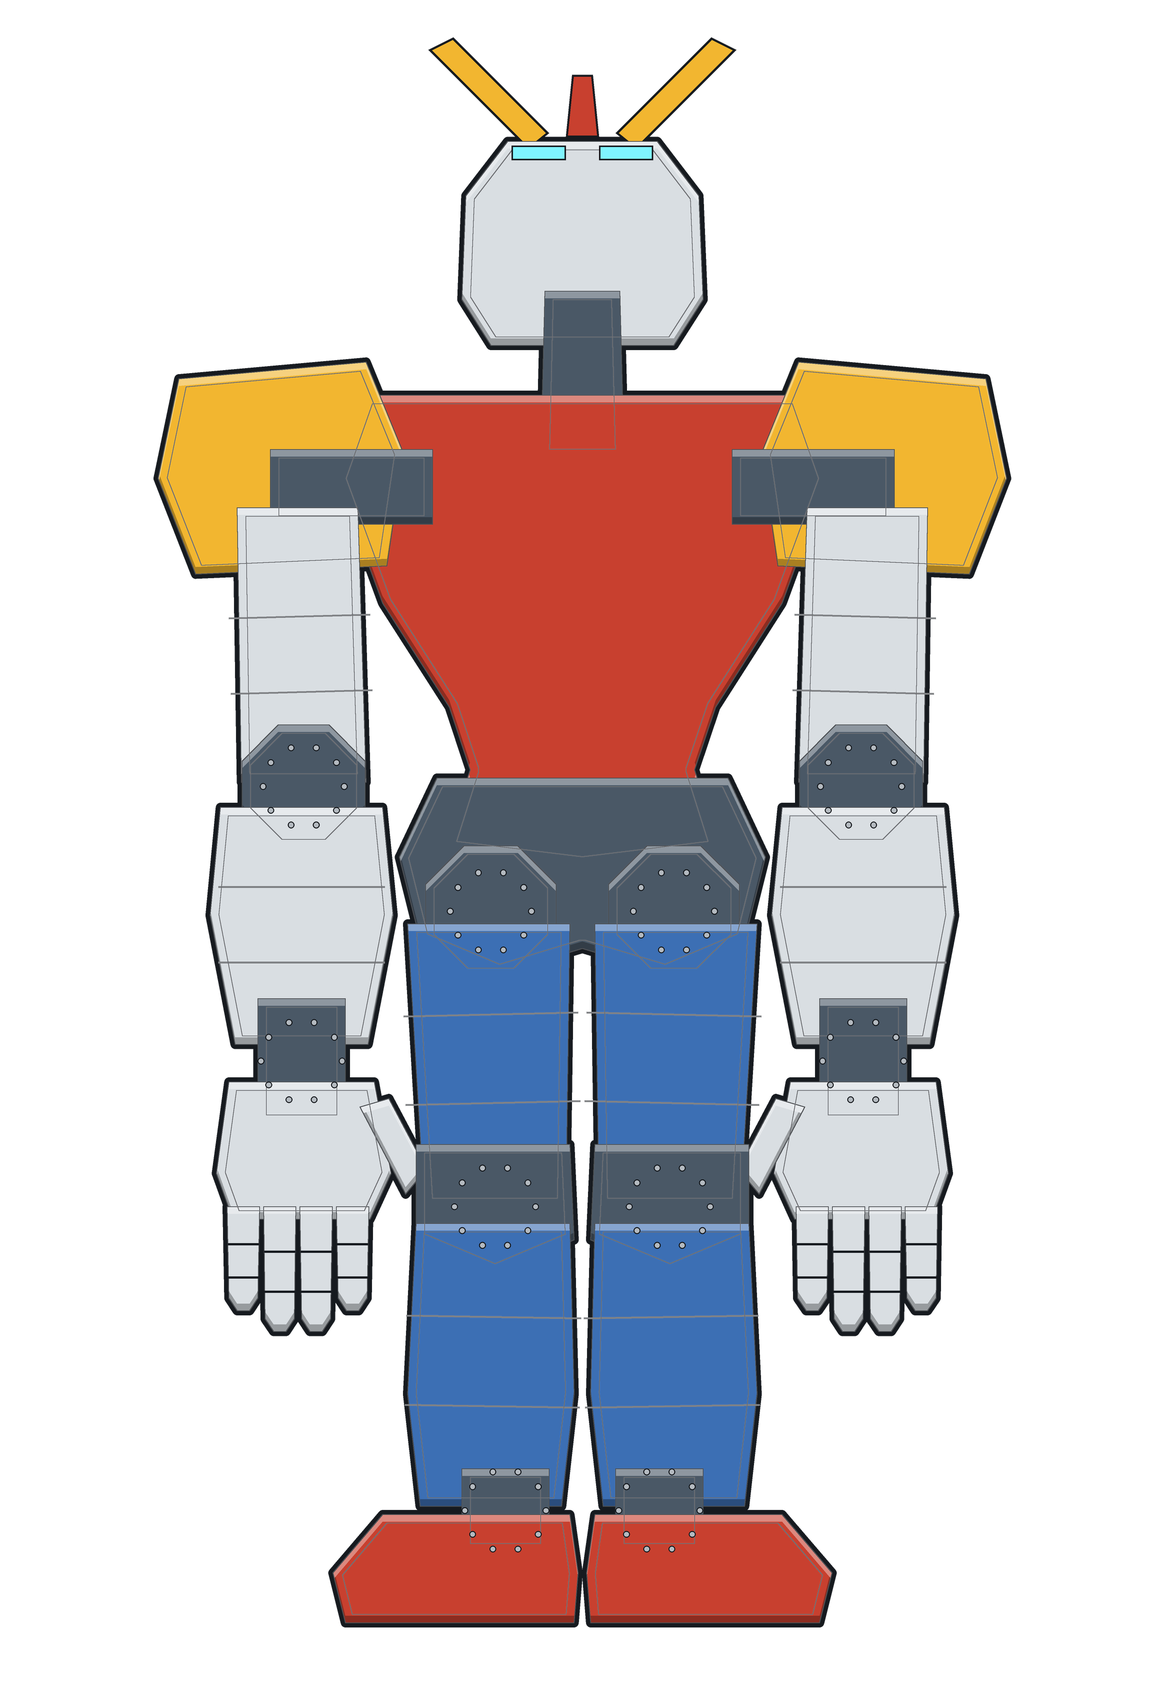
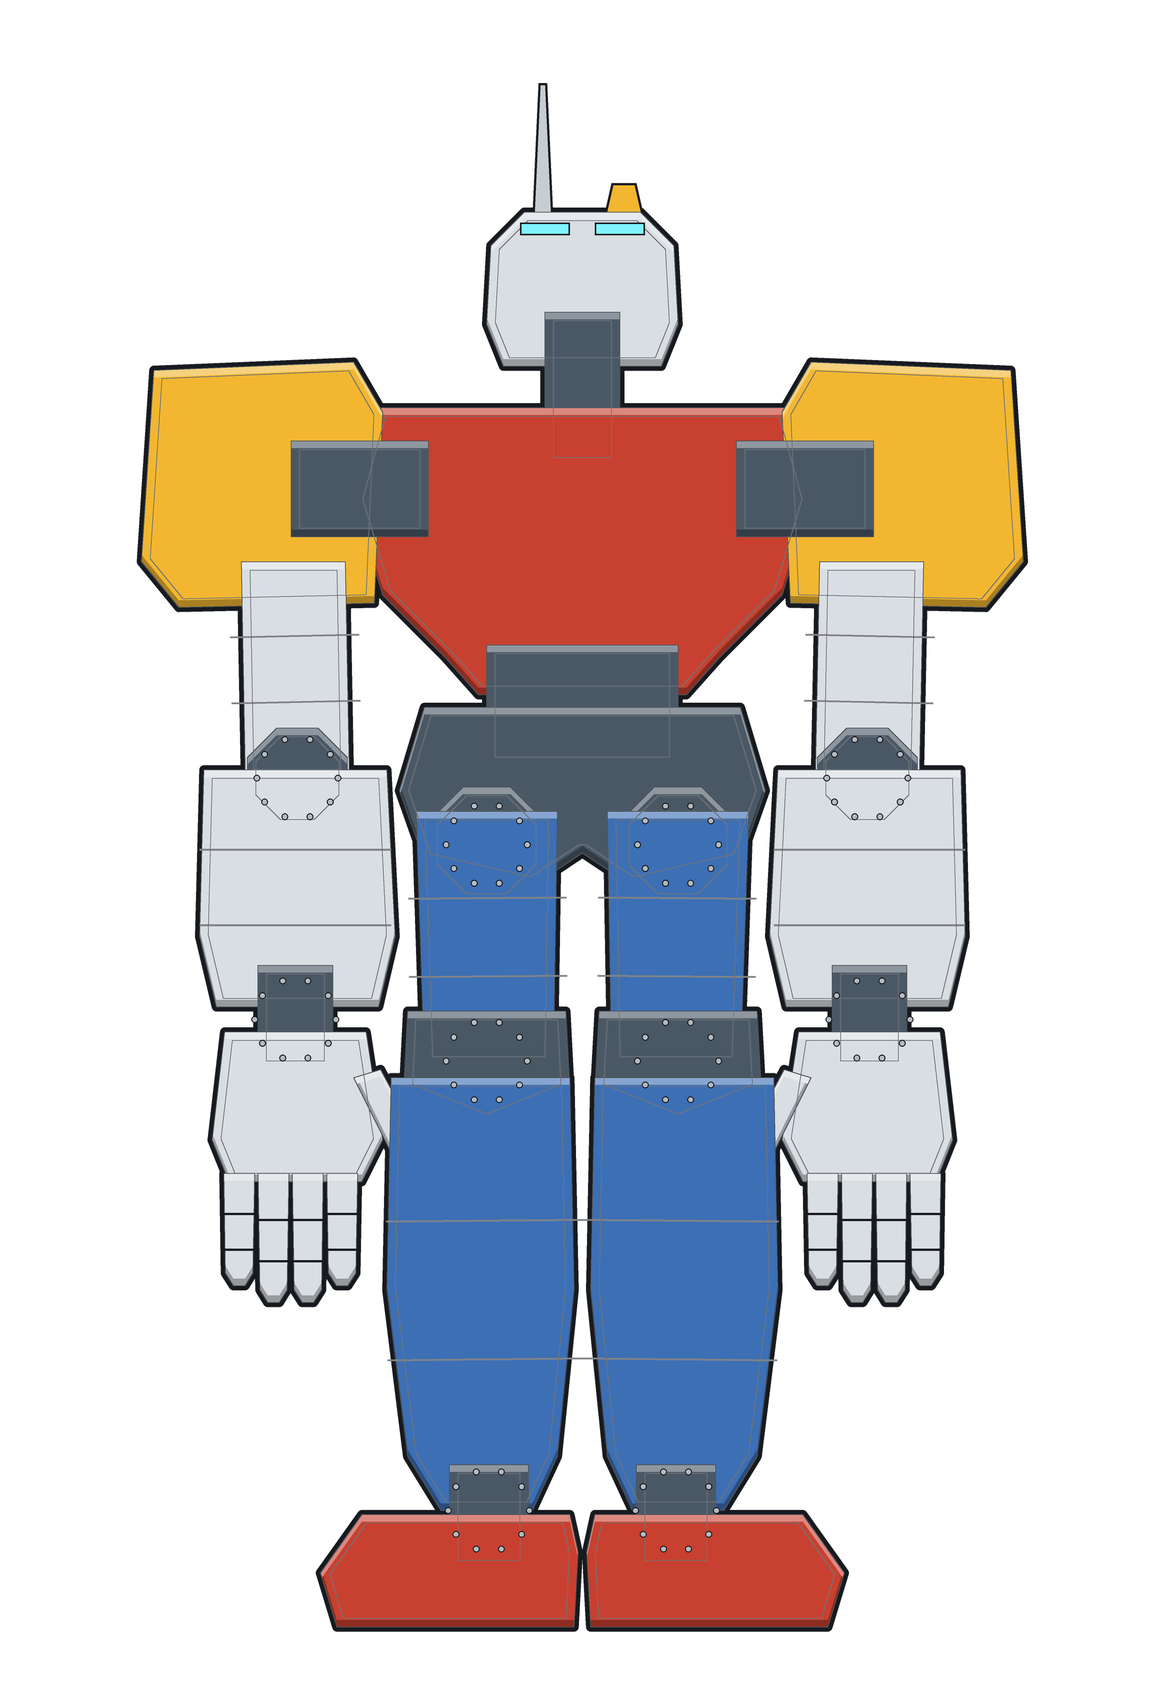
Reshape the robot to a long-legged mecha silhouette
Long legs close to half the height with long, thick shins narrowing to the
ankle and big boxy feet; tall block shoulders, slim upper arms and thick
squared forearms; a narrow waist under a wide flat chest; a small head
with a single antenna. Catwalks, ladders, seats, devices and props were
re-laid out to fit, with single ladders running from each foot to the
hips.

Claude-Session: https://claude.ai/code/session_014wgBvTxHemxFMo2E8WgQDa

Changed region(s): [[0.0927, 0.0, 0.8961, 0.9634]]

diff --git a/tools/art/robot_layers.py b/tools/art/robot_layers.py
@@ -120,35 +120,39 @@ def limb(name, color, thick, pts, a, b, r):
 
 
 def build_parts():
-    """角ばったメカの体。面で構成し、角は面取りする（曲線は使わない）"""
+    """角ばったメカの体。脚が長く（全高の半分近く）、すねは太く長く、足は大きな箱型。
+    肩は縦長のブロック、上腕は細く前腕は太い。腰は細く、胸は広く平ら、頭は小さい。"""
     L = []
-    L.append(Part("頭", "poly", WHITE, 1.0, pts=[(15.6, 49.4), (24.4, 49.4), (25.8, 51.6), (25.6, 56.6), (23.6, 59.2), (16.4, 59.2), (14.4, 56.6), (14.2, 51.6)]))
-    L.append(Part("首", "poly", DARK, 0.8, pts=[(18, 44.0), (22, 44.0), (21.8, 52.0), (18.2, 52.0)]))
-    L.append(Part("胸", "poly", RED, 1.2, pts=[(9.6, 47.0), (30.4, 47.0), (31.8, 43.0), (29.6, 37.0), (26.4, 32.0), (25.4, 29.0), (26.6, 25.2),
-                                                (20, 24.4), (13.4, 25.2), (14.6, 29.0), (13.6, 32.0), (10.4, 37.0), (8.2, 43.0)]))
-    L.append(Part("骨盤", "poly", DARK, 1.2, pts=[(13, 28.6), (27, 28.6), (28.8, 24.8), (27.8, 20.8), (24, 19.2), (20, 20.4), (16, 19.2), (12.2, 20.8), (11.2, 24.8)]))
+    L.append(Part("頭", "poly", WHITE, 0.9, pts=[(16.2, 48.4), (23.8, 48.4), (24.6, 50.4), (24.4, 54.2), (22.8, 55.8), (17.2, 55.8), (15.6, 54.2), (15.4, 50.4)]))
+    L.append(Part("首", "poly", DARK, 0.7, pts=[(18.2, 43.6), (21.8, 43.6), (21.8, 51.0), (18.2, 51.0)]))
+    L.append(Part("胸", "poly", RED, 1.1, pts=[(10.2, 46.4), (29.8, 46.4), (31.0, 42.0), (29.6, 37.4), (26.6, 34.4), (25.0, 32.6),
+                                                (15.0, 32.6), (13.4, 34.4), (10.4, 37.4), (9.0, 42.0)]))
+    L.append(Part("腰", "poly", DARK, 0.9, pts=[(15.4, 35.0), (24.6, 35.0), (24.6, 29.2), (15.4, 29.2)]))
+    L.append(Part("骨盤", "poly", DARK, 1.1, pts=[(12.4, 32.0), (27.6, 32.0), (28.8, 28.0), (27.6, 24.6), (22.4, 23.4), (20, 25.0),
+                                                  (17.6, 23.4), (12.4, 24.6), (11.2, 28.0)]))
     left = [
-        Part("左肩", "poly", YELLOW, 1.1, pts=[(0.6, 47.8), (9.6, 48.6), (11.4, 44.2), (10.6, 38.8), (1.4, 38.4), (-0.4, 43.0)]),
-        Part("左肩のつなぎ", "poly", DARK, 0.8, pts=[(5, 40.8), (12.8, 40.8), (12.8, 44.4), (5, 44.4)]),
-        limb("左上腕", WHITE, 0.9, [(3.4, 41.6), (9.2, 41.6), (9.6, 28.4), (3.6, 28.4)], (6.3, 40), (6.6, 29.0), 2.8),
-        Part("左ひじ", "poly", DARK, 0.9, pts=octagon(6.6, 28.2, 3.2), c=(6.6, 28.2)),
-        limb("左前腕", WHITE, 1.0, [(2.6, 27.2), (10.4, 27.2), (10.9, 22.0), (9.7, 15.8), (3.3, 15.8), (2.1, 22.0)], (6.5, 27), (6.5, 16), 3.4),
-        Part("左手首", "poly", DARK, 0.7, pts=[(4.4, 12.0), (8.6, 12.0), (8.6, 18.0), (4.4, 18.0)], c=(6.5, 15.0)),
-        Part("左手のひら", "poly", WHITE, 0.8, pts=[(3.0, 14.0), (10.0, 14.0), (10.8, 9.6), (9.8, 7.4), (3.2, 7.4), (2.4, 9.6)]),
-        limb("左親指", WHITE, 0.38, [(9.3, 12.8), (10.7, 13.2), (12.5, 9.8), (11.5, 8.6)], (10.0, 12.6), (11.8, 9.4), 0.7),
+        Part("左肩", "poly", YELLOW, 1.1, pts=[(-0.6, 48.2), (9.0, 48.6), (10.4, 46.2), (10.0, 37.0), (0.6, 36.8), (-1.2, 39.0)]),
+        Part("左肩のつなぎ", "poly", DARK, 0.8, pts=[(6, 40.2), (12.6, 40.2), (12.6, 44.8), (6, 44.8)]),
+        limb("左上腕", WHITE, 0.8, [(3.6, 39.0), (8.6, 39.0), (8.8, 28.6), (3.8, 28.6)], (6.1, 38.6), (6.3, 29.0), 2.5),
+        Part("左ひじ", "poly", DARK, 0.8, pts=octagon(6.3, 28.6, 2.6), c=(6.3, 28.6)),
+        limb("左前腕", WHITE, 1.0, [(1.8, 29.0), (10.6, 29.0), (11.0, 21.0), (10.2, 17.6), (2.4, 17.6), (1.6, 21.0)], (6.2, 28.8), (6.2, 17.8), 4.0),
+        Part("左手首", "poly", DARK, 0.6, pts=[(4.4, 14.6), (8.0, 14.6), (8.0, 19.6), (4.4, 19.6)], c=(6.2, 17.0)),
+        Part("左手のひら", "poly", WHITE, 0.7, pts=[(2.8, 16.4), (9.6, 16.4), (10.4, 11.2), (9.4, 9.2), (3.0, 9.2), (2.2, 11.2)]),
+        limb("左親指", WHITE, 0.36, [(9.0, 14.2), (10.3, 14.6), (12.0, 11.4), (11.0, 10.2)], (9.7, 14.0), (11.4, 10.8), 0.7),
     ]
     for i in range(4):  # 指（関節ごとに角ばった形。真ん中の2本は長い）
-        x = 3.7 + i * 1.75
-        tip = 2.0 if i in (1, 2) else 3.0
-        left.append(limb(f"左指{i + 1}", WHITE, 0.38, [(x - 0.78, 8.0), (x + 0.78, 8.0), (x + 0.7, tip + 0.6), (x + 0.3, tip), (x - 0.3, tip), (x - 0.7, tip + 0.6)],
-                         (x, 8.0), (x, tip), 0.7))
+        x = 3.5 + i * 1.65
+        tip = 3.4 if i in (1, 2) else 4.2
+        left.append(limb(f"左指{i + 1}", WHITE, 0.36, [(x - 0.74, 9.6), (x + 0.74, 9.6), (x + 0.66, tip + 0.6), (x + 0.28, tip), (x - 0.28, tip), (x - 0.66, tip + 0.6)],
+                         (x, 9.6), (x, tip), 0.7))
     left += [
-        Part("左股関節", "poly", DARK, 1.0, pts=octagon(15.6, 22.2, 3.4), c=(15.6, 22.2)),
-        limb("左もも", BLUE, 1.1, [(11.6, 21.6), (19.4, 21.6), (19.2, 8.0), (12.4, 8.0)], (15.5, 21.5), (15.8, 8.6), 3.6),
-        Part("左ひざ", "poly", DARK, 0.9, pts=[(12.0, 11.0), (19.4, 11.0), (19.6, 6.4), (15.8, 4.8), (12.0, 6.4)], c=(15.8, 8.0)),
-        limb("左すね", BLUE, 1.0, [(12.0, 7.2), (19.4, 7.2), (19.6, -1.0), (19.0, -6.4), (12.2, -6.4), (11.6, -1.0)], (15.8, 7), (15.6, -6), 3.6),
-        Part("左足首", "poly", DARK, 0.7, pts=[(14.2, -8.6), (18.4, -8.6), (18.4, -4.6), (14.2, -4.6)], c=(16.3, -6.6)),
-        Part("左足", "poly", RED, 1.0, pts=[(10.4, -6.8), (19.4, -6.8), (19.8, -9.6), (19.6, -12), (8.6, -12), (8.0, -9.6)]),
+        Part("左股関節", "poly", DARK, 1.0, pts=octagon(15.4, 25.4, 3.0), c=(15.4, 25.4)),
+        limb("左もも", BLUE, 1.0, [(12.0, 27.0), (18.8, 27.0), (18.6, 14.8), (12.4, 14.8)], (15.4, 26.6), (15.5, 15.2), 3.2),
+        Part("左ひざ", "poly", DARK, 0.9, pts=[(11.6, 17.4), (19.2, 17.4), (19.4, 13.6), (15.4, 12.0), (11.4, 13.6)], c=(15.4, 15.0)),
+        limb("左すね", BLUE, 1.0, [(10.8, 14.2), (19.4, 14.2), (19.6, 4.0), (18.8, -4.0), (17.6, -6.6), (13.2, -6.6), (11.6, -4.0), (10.6, 4.0)],
+             (15.3, 14.0), (15.5, -6.2), 4.2),
+        Part("左足首", "poly", DARK, 0.6, pts=[(13.6, -9.4), (17.4, -9.4), (17.4, -4.4), (13.6, -4.4)], c=(15.5, -6.6)),
+        Part("左足", "poly", RED, 1.0, pts=[(9.4, -6.8), (19.4, -6.8), (19.8, -8.6), (19.6, -12.2), (8.2, -12.2), (7.4, -9.6)]),
     ]
     L += left + [p.mirrored() for p in left]
     return L
@@ -156,11 +160,10 @@ def build_parts():
 
 # 空洞には入れない飾り（角・胸のエンブレムなど）
 def draw_decor(d):
-    for sd in (-1, 1):
-        pts = [(20 + sd * 2.6, 58.8), (20 + sd * 7.4, 63.6), (20 + sd * 6.2, 64.2), (20 + sd * 1.6, 59.6)]
-        d.polygon([P(*p) for p in pts], fill=hexc(YELLOW), outline=INK, width=int(0.12 * PX))
-    # 頭のとさか
-    d.polygon([P(*p) for p in [(19.2, 59.4), (20.8, 59.4), (20.5, 62.4), (19.5, 62.4)]], fill=hexc(RED), outline=INK, width=int(0.1 * PX))
+    w = int(0.12 * PX)
+    # 1本のアンテナ（左寄り）と、頭の上の小さな突起
+    d.polygon([P(*p) for p in [(17.6, 55.4), (18.6, 55.4), (18.3, 62.0), (17.9, 62.0)]], fill=(200, 205, 210, 255), outline=INK, width=w)
+    d.polygon([P(*p) for p in [(21.0, 55.4), (23.0, 55.4), (22.6, 57.2), (21.4, 57.2)]], fill=hexc(YELLOW), outline=INK, width=w)
 
 
 def mask_of(parts, shrink=False):
@@ -262,8 +265,8 @@ def build_armor(parts):
                 x, z = ax + (bx - ax) * t, az + (bz - az) * t
                 d.line([P(x - 0.75, z), P(x + 0.75, z)], fill=INK, width=int(0.12 * PX))
     # 目
-    for x0, x1 in ((16.6, 19.2), (20.8, 23.4)):
-        a, b = P(x0, 59.0), P(x1, 58.3)
+    for x0, x1 in ((17.0, 19.4), (20.6, 23.0)):
+        a, b = P(x0, 55.3), P(x1, 54.7)
         d.rectangle([a[0], a[1], b[0], b[1]], fill=(127, 244, 255, 255), outline=INK, width=int(0.08 * PX))
     return img
 
@@ -354,7 +357,7 @@ def build_back(parts, cavity):
             a = P(x + nx * (o - 0.55), z + nz * (o - 0.55)); b = P(x + nx * (o + 0.55), z + nz * (o + 0.55))
             d.line([a, b], fill=INK, width=int(0.3 * PX)); d.line([a, b], fill=(160, 168, 176, 255), width=int(0.18 * PX))
     # 胴の中を横切るケーブルの束
-    for z, x0, x1, sag in ((45.2, 11, 29, 2.0), (31.5, 14.5, 25.5, 1.2), (24.6, 13, 27, 1.4), (57.8, 15.5, 24.5, 1.4), (43.6, 2.0, 11.5, 1.0), (43.6, 28.5, 38, 1.0)):
+    for z, x0, x1, sag in ((45.0, 11, 29, 2.0), (33.4, 16.5, 23.5, 1.0), (30.6, 13, 27, 1.4), (54.6, 17, 23, 1.0), (46.4, 1.0, 9.5, 1.2), (46.4, 30.5, 39, 1.2)):
         for k in range(4):
             pts = [P(x0 + (x1 - x0) * t, z - k * 0.16 - sag * math.sin(math.pi * t)) for t in [i / 30 for i in range(31)]]
             cable_line(d, pts, BACK_CABLES[(k * 2) % len(BACK_CABLES)], int(0.1 * PX), int(0.17 * PX))

diff --git a/robot/Assets/Scripts/Map/InteriorMap.cs b/robot/Assets/Scripts/Map/InteriorMap.cs
@@ -36,35 +36,33 @@ public static class InteriorMap
 
     public static readonly Catwalk[] Catwalks =
     {
-        C(16.2f, 23.8f, 50.6f),   // 頭
-        C(2.6f, 37.4f, 42f),      // 肩から胸の上の段
-        C(13.4f, 26.6f, 34.4f),   // 胸の下の段（動力炉）
-        C(13.4f, 26.6f, 22.4f),   // 腰
-        C(13.6f, 17.8f, 14.5f),   // 左もも（途中の足場）
-        C(22.2f, 26.4f, 14.5f),   // 右もも
-        C(3.9f, 9.0f, 8.6f),      // 左の手のひら
-        C(31.0f, 36.1f, 8.6f),    // 右の手のひら
-        C(13.4f, 18.0f, -3.6f),   // 左すね
-        C(22.0f, 26.6f, -3.6f),   // 右すね
-        C(10.4f, 18.4f, -10.6f),  // 左足
-        C(21.6f, 29.6f, -10.6f),  // 右足
+        C(16.8f, 23.2f, 49.5f),   // 頭
+        C(0.8f, 39.2f, 41.5f),    // 肩から胸の上の段
+        C(13.6f, 26.4f, 35.6f),   // 胸の下の段（動力炉）
+        C(12.8f, 27.2f, 27.4f),   // 腰
+        C(13.2f, 17.4f, 20.6f),   // 左もも（途中の足場）
+        C(22.6f, 26.8f, 20.6f),   // 右もも
+        C(3.4f, 8.8f, 10.3f),     // 左の手のひら
+        C(31.2f, 36.6f, 10.3f),   // 右の手のひら
+        C(12.2f, 18.6f, 4.6f),    // 左すね
+        C(21.4f, 27.8f, 4.6f),    // 右すね
+        C(9.0f, 18.6f, -10.8f),   // 左足
+        C(21.4f, 31.0f, -10.8f),  // 右足
     };
 
     public static readonly Ladder[] Ladders =
     {
-        L(20f, 22.4f, 50.6f),     // 腰 → 胸 → 首 → 頭（体の真ん中を通る）
-        L(6.5f, 8.6f, 42f),       // 左肩 → 上腕 → 前腕 → 手首 → 手のひら
-        L(33.5f, 8.6f, 42f),      // 右肩 → 右手のひら
-        L(15.6f, -3.6f, 22.4f),   // 腰 → 左もも → ひざ → 左すね
-        L(24.4f, -3.6f, 22.4f),   // 腰 → 右すね
-        L(16.6f, -10.6f, -3.6f),  // 左すね → 足首 → 左足
-        L(23.4f, -10.6f, -3.6f),  // 右すね → 右足
+        L(20f, 27.4f, 49.5f),     // 腰 → 腹 → 胸 → 首 → 頭（体の真ん中を通る）
+        L(6.2f, 10.3f, 41.5f),    // 左肩 → 上腕 → ひじ → 前腕 → 手首 → 手のひら
+        L(33.8f, 10.3f, 41.5f),   // 右肩 → 右手のひら
+        L(15.5f, -10.8f, 27.4f),  // 腰 → 左もも → ひざ → 左すね → 足首 → 左足
+        L(24.5f, -10.8f, 27.4f),  // 腰 → 右足
     };
 
-    public static readonly Vector2 Spawn = new Vector2(24f, 34.4f) * Scale;
+    public static readonly Vector2 Spawn = new Vector2(24f, 35.6f) * Scale;
 
     /// <summary>動力炉の本体の位置（足元、メートル）</summary>
-    public static readonly Vector2 ReactorPos = new Vector2(17.4f, 34.4f) * Scale;
+    public static readonly Vector2 ReactorPos = new Vector2(17.2f, 35.6f) * Scale;
 
     // ------------------------------------------------------------------ 体の絵（tools/art/robot_layers.py で描く）
 
@@ -84,13 +82,13 @@ public static class InteriorMap
     /// <summary>場所の名前（画面下の案内に出す）。設計マスのおおよその範囲</summary>
     static readonly (string name, Rect rect)[] Regions =
     {
-        ("頭", Rect.MinMaxRect(13f, 49f, 27f, 61f)), ("首", Rect.MinMaxRect(17f, 45.5f, 23f, 49f)),
-        ("左肩", Rect.MinMaxRect(0f, 39f, 11f, 48f)), ("右肩", Rect.MinMaxRect(29f, 39f, 40f, 48f)),
-        ("胸", Rect.MinMaxRect(9f, 32f, 31f, 47f)), ("腹", Rect.MinMaxRect(13f, 27f, 27f, 32f)), ("腰", Rect.MinMaxRect(11f, 19f, 29f, 27f)),
-        ("左腕", Rect.MinMaxRect(1f, 15f, 11f, 39f)), ("右腕", Rect.MinMaxRect(29f, 15f, 39f, 39f)),
-        ("左手", Rect.MinMaxRect(0f, 1f, 13f, 15f)), ("右手", Rect.MinMaxRect(27f, 1f, 40f, 15f)),
-        ("左もも", Rect.MinMaxRect(11f, 8f, 20f, 19f)), ("右もも", Rect.MinMaxRect(20f, 8f, 29f, 19f)),
-        ("左すね", Rect.MinMaxRect(11f, -6f, 20f, 8f)), ("右すね", Rect.MinMaxRect(20f, -6f, 29f, 8f)),
+        ("頭", Rect.MinMaxRect(15f, 49f, 25f, 57f)), ("首", Rect.MinMaxRect(17f, 46.5f, 23f, 49f)),
+        ("左肩", Rect.MinMaxRect(-2f, 37f, 10f, 49f)), ("右肩", Rect.MinMaxRect(30f, 37f, 42f, 49f)),
+        ("胸", Rect.MinMaxRect(9f, 35f, 31f, 46.5f)), ("腹", Rect.MinMaxRect(14f, 31f, 26f, 35f)), ("腰", Rect.MinMaxRect(11f, 23f, 29f, 31f)),
+        ("左腕", Rect.MinMaxRect(1f, 17f, 11f, 37f)), ("右腕", Rect.MinMaxRect(29f, 17f, 39f, 37f)),
+        ("左手", Rect.MinMaxRect(0f, 2f, 13f, 17f)), ("右手", Rect.MinMaxRect(27f, 2f, 40f, 17f)),
+        ("左もも", Rect.MinMaxRect(11f, 15f, 20f, 23f)), ("右もも", Rect.MinMaxRect(20f, 15f, 29f, 23f)),
+        ("左すね", Rect.MinMaxRect(10f, -6f, 20f, 15f)), ("右すね", Rect.MinMaxRect(20f, -6f, 30f, 15f)),
         ("左足", Rect.MinMaxRect(7f, -13f, 20f, -6f)), ("右足", Rect.MinMaxRect(20f, -13f, 33f, -6f)),
     };
 
@@ -231,10 +229,10 @@ public static class InteriorMap
         // 足場に置いた荷物や機械（設計マス：x, 足場の高さ, 大きさ）
         (string sprite, float x, float y, float scale)[] props =
         {
-            ("crate", 26.1f, 34.4f, 0.8f),
-            ("machine", 28.5f, 42f, 0.6f), ("tanks", 15.5f, 42f, 0.6f),
-            ("machine", 22f, 22.4f, 0.55f),
-            ("crate", 13.2f, -10.6f, 0.8f), ("crate", 14.2f, -10.6f, 0.8f), ("crate", 28.4f, -10.6f, 0.8f), ("tanks", 26.4f, -10.6f, 0.7f),
+            ("crate", 26.2f, 35.6f, 0.8f),
+            ("machine", 30f, 41.5f, 0.6f), ("tanks", 15.2f, 41.5f, 0.6f),
+            ("machine", 21.6f, 27.4f, 0.55f),
+            ("crate", 12.6f, -10.8f, 0.8f), ("crate", 13.6f, -10.8f, 0.8f), ("crate", 28.4f, -10.8f, 0.8f), ("tanks", 26.6f, -10.8f, 0.7f),
         };
         foreach (var (sprite, x, y, scale) in props)
         {

diff --git a/robot/Assets/Scripts/Core/Tasks.cs b/robot/Assets/Scripts/Core/Tasks.cs
@@ -31,15 +31,15 @@ public static class Tasks
 
     public static readonly TaskDef[] All =
     {
-        new TaskDef { Name = "冷却バルブ",     Room = "胸",     Kind = TaskKind.Valve, Pos = P(12f, 42f),   PanelOffset = new Vector2(0f, 1.05f),  Effect = "動力が早く減る" },
-        new TaskDef { Name = "左腕の配線",     Room = "左肩",   Kind = TaskKind.Wires, Pos = P(3.4f, 42f),    PanelOffset = new Vector2(0f, 1.05f),   Effect = "左腕のパンチが遅い" },
-        new TaskDef { Name = "右腕の配線",     Room = "右肩",   Kind = TaskKind.Wires, Pos = P(36.6f, 42f),   PanelOffset = new Vector2(0f, 1.05f),   Effect = "右腕のパンチが遅い" },
-        new TaskDef { Name = "左脚の油圧",     Room = "左もも", Kind = TaskKind.Gauge, Pos = P(17.2f, 14.5f),   PanelOffset = new Vector2(0f, 1.05f),  Effect = "左脚が全力で動かない" },
-        new TaskDef { Name = "右脚の油圧",     Room = "右もも", Kind = TaskKind.Gauge, Pos = P(22.8f, 14.5f),   PanelOffset = new Vector2(0f, 1.05f),   Effect = "右脚が全力で動かない" },
-        new TaskDef { Name = "ヒューズ",       Room = "腰",     Kind = TaskKind.Fuse,  Pos = P(25.6f, 22.4f),   PanelOffset = new Vector2(0f, 1.05f),   Effect = "頭部砲が撃てない" },
-        new TaskDef { Name = "照準の調整",     Room = "頭",     Kind = TaskKind.Scope, Pos = P(17f, 50.6f),   PanelOffset = new Vector2(0f, 1.05f),  Effect = "砲撃が狙いからずれる" },
-        new TaskDef { Name = "排熱ダクト",     Room = "腰",     Kind = TaskKind.Vent,  Pos = P(14.4f, 22.4f),     PanelOffset = new Vector2(0f, 1.05f),  Effect = "装甲がじわじわ減る" },
-        new TaskDef { Name = "姿勢制御ジャイロ", Room = "左足", Kind = TaskKind.Gyro,  Pos = P(11f, -10.6f),   PanelOffset = new Vector2(0f, 1.05f),  Effect = "歩くとふらついて曲がる" },
+        new TaskDef { Name = "冷却バルブ",     Room = "胸",     Kind = TaskKind.Valve, Pos = P(11.8f, 41.5f),   PanelOffset = new Vector2(0f, 1.05f),  Effect = "動力が早く減る" },
+        new TaskDef { Name = "左腕の配線",     Room = "左肩",   Kind = TaskKind.Wires, Pos = P(2.2f, 41.5f),    PanelOffset = new Vector2(0f, 1.05f),   Effect = "左腕のパンチが遅い" },
+        new TaskDef { Name = "右腕の配線",     Room = "右肩",   Kind = TaskKind.Wires, Pos = P(37.8f, 41.5f),   PanelOffset = new Vector2(0f, 1.05f),   Effect = "右腕のパンチが遅い" },
+        new TaskDef { Name = "左脚の油圧",     Room = "左もも", Kind = TaskKind.Gauge, Pos = P(16.8f, 20.6f),   PanelOffset = new Vector2(0f, 1.05f),  Effect = "左脚が全力で動かない" },
+        new TaskDef { Name = "右脚の油圧",     Room = "右もも", Kind = TaskKind.Gauge, Pos = P(23.2f, 20.6f),   PanelOffset = new Vector2(0f, 1.05f),   Effect = "右脚が全力で動かない" },
+        new TaskDef { Name = "ヒューズ",       Room = "腰",     Kind = TaskKind.Fuse,  Pos = P(26f, 27.4f),   PanelOffset = new Vector2(0f, 1.05f),   Effect = "頭部砲が撃てない" },
+        new TaskDef { Name = "照準の調整",     Room = "頭",     Kind = TaskKind.Scope, Pos = P(17.6f, 49.5f),   PanelOffset = new Vector2(0f, 1.05f),  Effect = "砲撃が狙いからずれる" },
+        new TaskDef { Name = "排熱ダクト",     Room = "腰",     Kind = TaskKind.Vent,  Pos = P(14f, 27.4f),     PanelOffset = new Vector2(0f, 1.05f),  Effect = "装甲がじわじわ減る" },
+        new TaskDef { Name = "姿勢制御ジャイロ", Room = "左足", Kind = TaskKind.Gyro,  Pos = P(10.4f, -10.8f),   PanelOffset = new Vector2(0f, 1.05f),  Effect = "歩くとふらついて曲がる" },
     };
 
     public static string SpriteFor(TaskKind k) => k switch

diff --git a/robot/Assets/Scripts/Core/Stations.cs b/robot/Assets/Scripts/Core/Stations.cs
@@ -23,11 +23,11 @@ public static class Stations
 
     public static readonly StationDef[] All =
     {
-        new StationDef { Name = "左脚", Type = StationType.Leg,  Side = -1, Pos = new Vector2(14f, -3.6f) * InteriorMap.Scale, ConsoleOffset = new Vector2(-1.5f, 0.95f), Color = Prims.Hex("#4fd2ff") },
-        new StationDef { Name = "右脚", Type = StationType.Leg,  Side =  1, Pos = new Vector2(26f, -3.6f) * InteriorMap.Scale, ConsoleOffset = new Vector2(1.5f, 0.95f), Color = Prims.Hex("#4fd2ff") },
-        new StationDef { Name = "左腕", Type = StationType.Arm,  Side = -1, Pos = new Vector2(4.4f, 8.6f) * InteriorMap.Scale,      ConsoleOffset = new Vector2(-1.4f, 0.95f), Color = Prims.Hex("#ff9a3c") },
-        new StationDef { Name = "右腕", Type = StationType.Arm,  Side =  1, Pos = new Vector2(35.6f, 8.6f) * InteriorMap.Scale,     ConsoleOffset = new Vector2(1.4f, 0.95f),  Color = Prims.Hex("#ff9a3c") },
-        new StationDef { Name = "頭部砲", Type = StationType.Head, Side = 0, Pos = new Vector2(22.6f, 50.6f) * InteriorMap.Scale,     ConsoleOffset = new Vector2(1.5f, 0.95f),  Color = Prims.Hex("#b8ff5a") },
-        new StationDef { Name = "動力炉", Type = StationType.Core, Side = 0, Pos = new Vector2(14.6f, 34.4f) * InteriorMap.Scale,    ConsoleOffset = new Vector2(1.2f, 0.95f), Color = Prims.Hex("#ffd23f") },
+        new StationDef { Name = "左脚", Type = StationType.Leg,  Side = -1, Pos = new Vector2(13f, 4.6f) * InteriorMap.Scale, ConsoleOffset = new Vector2(-1.5f, 0.95f), Color = Prims.Hex("#4fd2ff") },
+        new StationDef { Name = "右脚", Type = StationType.Leg,  Side =  1, Pos = new Vector2(27f, 4.6f) * InteriorMap.Scale, ConsoleOffset = new Vector2(1.5f, 0.95f), Color = Prims.Hex("#4fd2ff") },
+        new StationDef { Name = "左腕", Type = StationType.Arm,  Side = -1, Pos = new Vector2(3.9f, 10.3f) * InteriorMap.Scale,      ConsoleOffset = new Vector2(-1.4f, 0.95f), Color = Prims.Hex("#ff9a3c") },
+        new StationDef { Name = "右腕", Type = StationType.Arm,  Side =  1, Pos = new Vector2(36.1f, 10.3f) * InteriorMap.Scale,     ConsoleOffset = new Vector2(1.4f, 0.95f),  Color = Prims.Hex("#ff9a3c") },
+        new StationDef { Name = "頭部砲", Type = StationType.Head, Side = 0, Pos = new Vector2(21.8f, 49.5f) * InteriorMap.Scale,     ConsoleOffset = new Vector2(1.5f, 0.95f),  Color = Prims.Hex("#b8ff5a") },
+        new StationDef { Name = "動力炉", Type = StationType.Core, Side = 0, Pos = new Vector2(14.2f, 35.6f) * InteriorMap.Scale,    ConsoleOffset = new Vector2(1.2f, 0.95f), Color = Prims.Hex("#ffd23f") },
     };
 }
